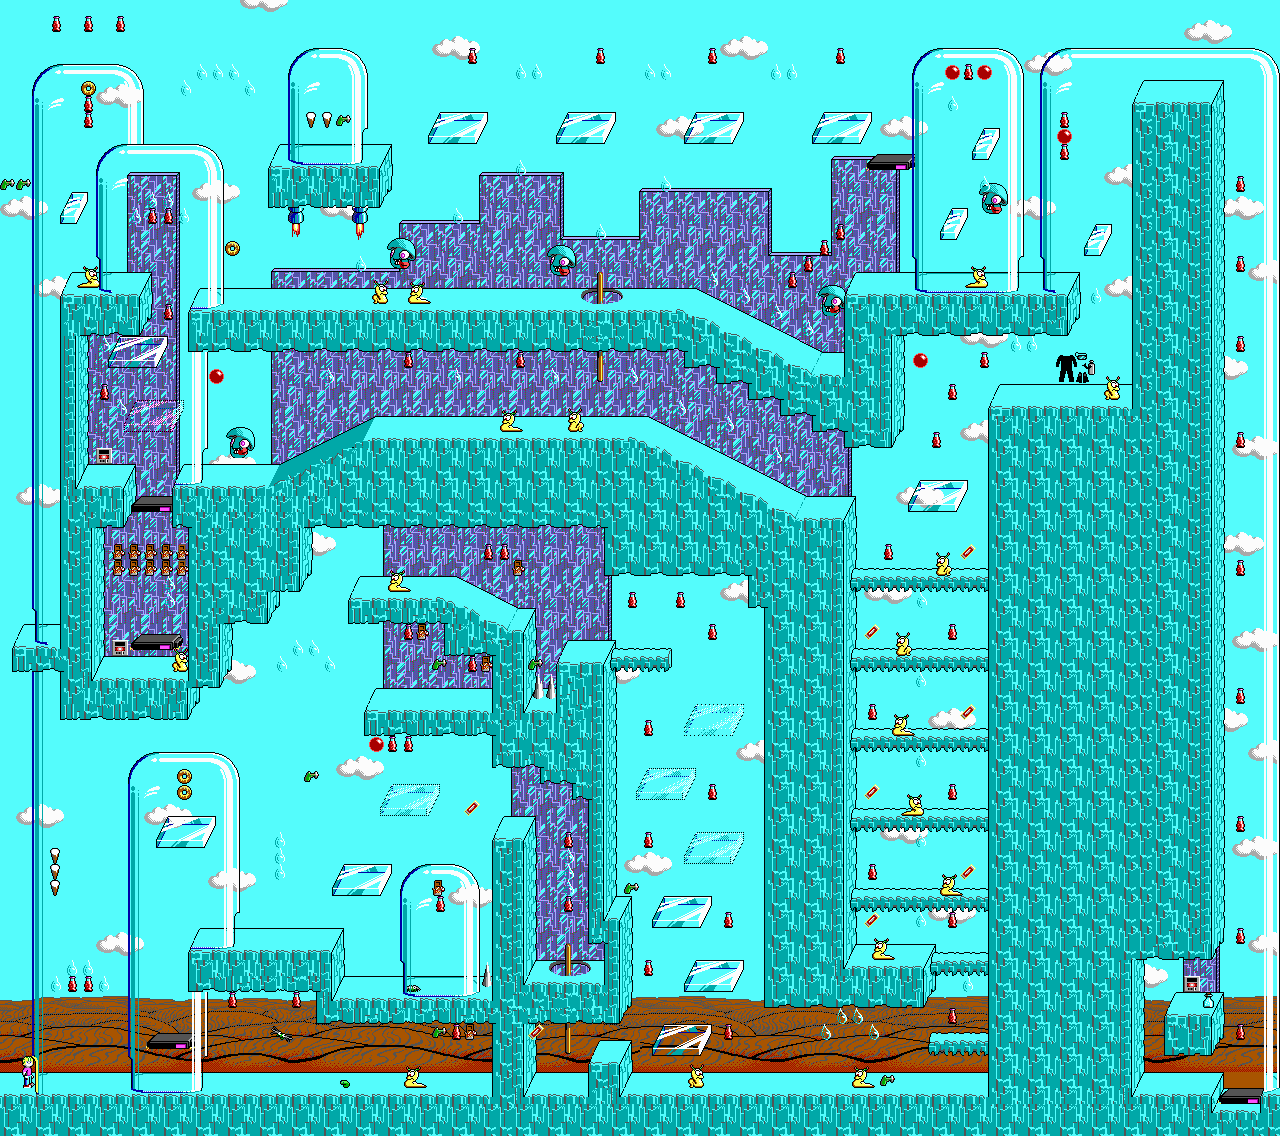
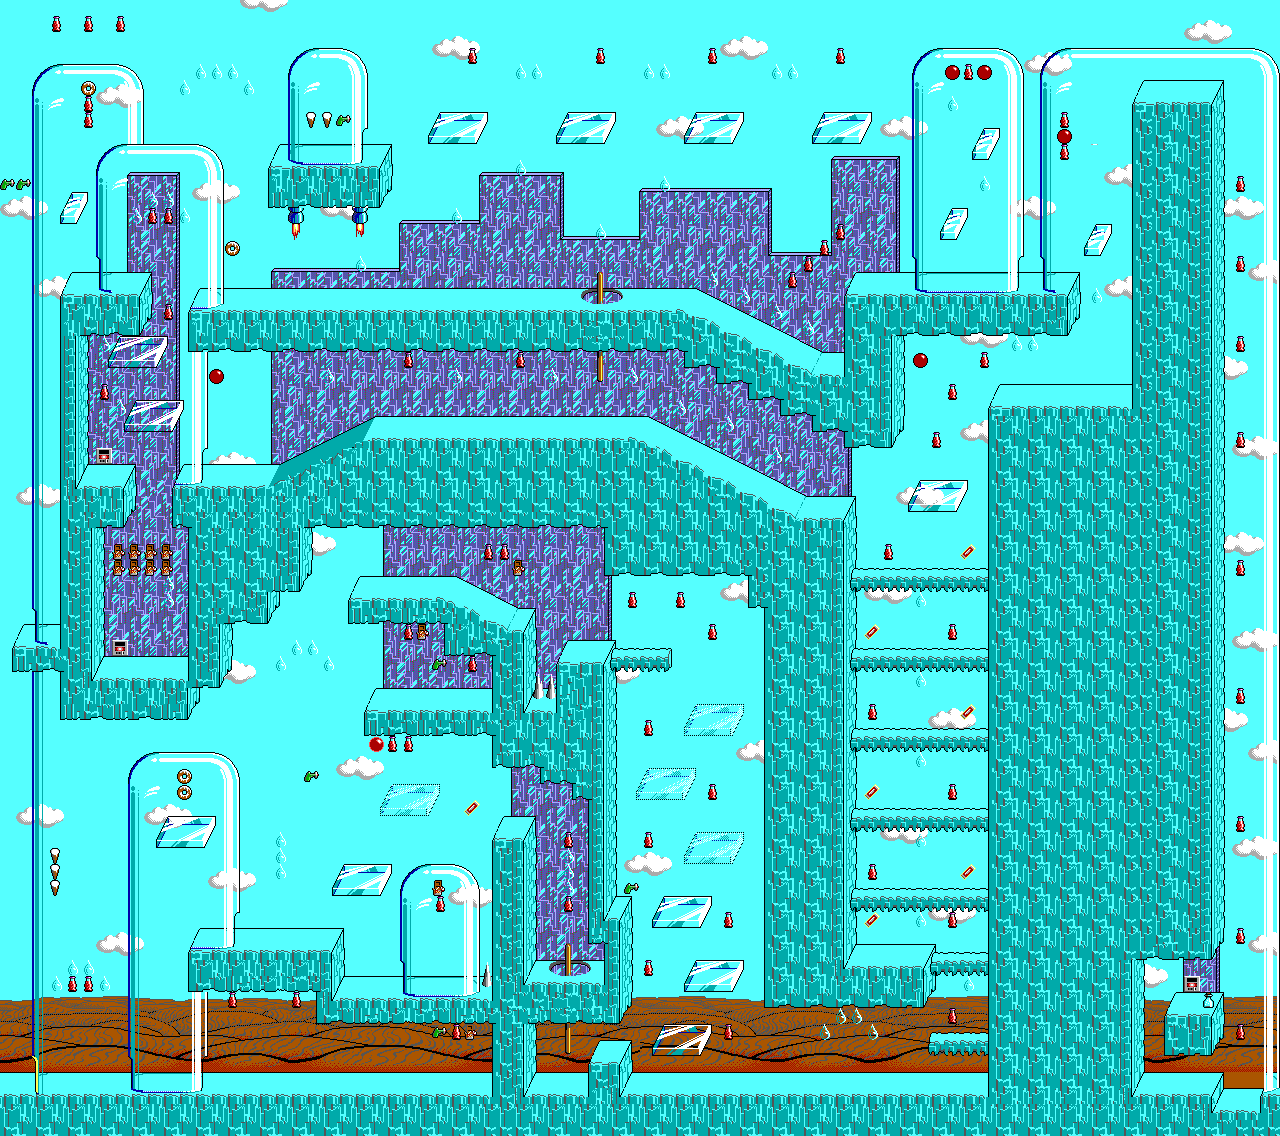
feat(maps): render all level maps from game data with every collectible
Replace the hand-made level art with fully reproducible renders. A new tool,
tools/render_level_maps.py, renders each Keen 4/5 level from the game data
(background+foreground at 16px/tile), crops it to the tracker framing, and
stamps every trackable collectible at its exact in-game tile: gems (Red/Yellow/
Blue/Green), the Keen 5 Keycard, the 5000-pt point pickups (cone/sugar) and the
extra-life pickups (flask/keg).

Gems and the keycard are located from the info plane only (one collectible each,
matching the AP locations); their misc tiles also appear as scenery, so a
foreground scan would over-count. Point/extra-life pickups scan both planes
(counts match the apworld worksheet / drift check). 273 collectibles total,
none off-image.

The per-level crop (left=3; top usually 2, more where the framing trims empty
sky/floor) is baked from the prior alignment so existing location pins stay
valid. Output is a deterministic function of the game data + the script.

Supersedes tools/overlay_pickups_on_maps.py (removed) and the committed
images/_base_levels/ backup (removed); replaces the 'just overlay-maps' recipe
with 'just render-maps'.

diff --git a/tools/render_level_maps.py b/tools/render_level_maps.py
@@ -1,0 +1,181 @@
+#!/usr/bin/env python3
+"""Render every Commander Keen 4/5 tracker level map from the original game data
+and stamp all trackable collectibles onto them, so the maps are fully
+reproducible from the game (no hand-made art).
+
+This supersedes the old overlay-onto-hand-art approach: instead of compositing
+sprites onto pre-existing polished PNGs, it renders each level's background +
+foreground from the game (tools/render_pointsanity_maps.render_map), crops it to
+the tracker framing, and stamps the collectibles at their exact in-game tiles.
+
+Crop / coordinates
+------------------
+Each tracker image crops the game's tile grid by a left border of 3 tiles and a
+top border that is usually 2 (a few levels trim more empty sky / floor: see
+CROP). A collectible at game tile (tx, ty) lands at image pixel centre
+((tx-left)*16+8, (ty-top)*16+8). The CROP table was derived once by aligning the
+former hand-made art against the game render; it is kept fixed so the existing
+location pins (placed against these crops) stay valid.
+
+Collectibles
+------------
+Gems (Red/Yellow/Blue/Green), the Keen 5 Keycard, the 5000-pt pickups (Ice Cream
+Cone / Bag O' Sugar) and the extra-life pickups (Lifewater Flask / Vitalin Keg).
+Each is located by scanning the level (info-layer spawns first, then foreground
+tiles carrying its misc flag) and drawn with its real in-game icon. Minor point
+treasures (gum, soda, ...) are not AP locations and are not stamped.
+
+Output images/Ck?lv??.png are a deterministic function of the game data + this
+script. Needs the omnispeak game data that render_pointsanity_maps points at.
+"""
+from __future__ import annotations
+
+import importlib.util
+import json
+from pathlib import Path
+
+from PIL import Image
+
+HERE = Path(__file__).resolve().parent
+TRACKER = HERE.parent
+IMAGES = TRACKER / "images"
+
+# Reuse the renderer's game-data decoders (Graphics, Maps, render_map, scan_pickups).
+_spec = importlib.util.spec_from_file_location(
+    "render_pointsanity_maps", HERE / "render_pointsanity_maps.py"
+)
+R = importlib.util.module_from_spec(_spec)
+_spec.loader.exec_module(R)
+
+TILE = 16
+
+# tracker map-id -> Gamemaps level index (matches maps/keen{4,5}_maps.json order;
+# untracked levels — Pyramid of the Forbidden (CK4 14), Korath III (CK5 13) —
+# have no tracker map and are intentionally absent).
+MAPID_TO_IDX = {
+    "keen4_bv": 1, "keen4_sv": 2, "keen4_pp": 3, "keen4_cotd": 4, "keen4_coc": 5,
+    "keen4_crys": 6, "keen4_hil": 7, "keen4_sy": 8, "keen4_mir": 9, "keen4_lo": 10,
+    "keen4_potm": 11, "keen4_pos": 12, "keen4_potga": 13, "keen4_iot": 15,
+    "keen4_iof": 16, "keen4_wow": 17, "keen4_bwbm": 18,
+    "keen5_ivs": 1, "keen5_sc": 2, "keen5_dtv": 3, "keen5_efs": 4, "keen5_dtb": 5,
+    "keen5_rcc": 6, "keen5_dts": 7, "keen5_nbi": 8, "keen5_dtt": 9, "keen5_bmi": 10,
+    "keen5_gdh": 11, "keen5_qed": 12,
+}
+
+# Per-level crop in tiles (left, top, right, bottom). Left is always 3; top/bottom
+# vary where the original framing trimmed empty sky/floor. Derived once by aligning
+# the former hand art against the game render (mean-abs pixel match); kept fixed so
+# location pins stay valid. If the art framing ever needs changing, re-derive and
+# migrate the affected pins in lock-step.
+CROP = {
+    "keen4_bv": (3, 2, 1, 2), "keen4_sv": (3, 6, 1, 2), "keen4_pp": (3, 2, 1, 2),
+    "keen4_cotd": (3, 2, 1, 2), "keen4_coc": (3, 2, 1, 2), "keen4_crys": (3, 2, 1, 2),
+    "keen4_hil": (3, 2, 1, 2), "keen4_sy": (3, 2, 1, 2), "keen4_mir": (3, 2, 1, 2),
+    "keen4_lo": (3, 2, 1, 3), "keen4_potm": (3, 2, 1, 2), "keen4_pos": (3, 2, 1, 4),
+    "keen4_potga": (3, 2, 1, 2), "keen4_iot": (3, 2, 1, 2), "keen4_iof": (3, 2, 1, 2),
+    "keen4_wow": (3, 2, 1, 2), "keen4_bwbm": (3, 2, 1, 2),
+    "keen5_ivs": (3, 4, 1, 2), "keen5_sc": (3, 2, 1, 2), "keen5_dtv": (3, 2, 1, 2),
+    "keen5_efs": (3, 2, 1, 2), "keen5_dtb": (3, 2, 1, 2), "keen5_rcc": (3, 2, 1, 2),
+    "keen5_dts": (3, 2, 1, 2), "keen5_nbi": (3, 2, 1, 2), "keen5_dtt": (3, 2, 1, 2),
+    "keen5_bmi": (3, 2, 1, 2), "keen5_gdh": (3, 2, 1, 2), "keen5_qed": (3, 2, 1, 2),
+}
+
+# Trackable collectibles. "item" is the info-plane item number (spawns at
+# 57+item); "misc" is the foreground-tile flag (only used by "both"-mode scans).
+#
+# "scan" picks how positions are found:
+#   "info" — info-layer spawns only (info == 57+item). Gems and the Keycard are
+#            single collectibles placed this way; matching foreground misc tiles
+#            are scenery (gem holders, card-coloured walls), so a foreground scan
+#            would over-count.
+#   "both" — info-layer spawns then foreground misc tiles (the AP/client order).
+#            Point and extra-life pickups are placed either way; counts here match
+#            the apworld worksheet / drift check.
+#
+# The icon is the item's actual in-game pickup sprite, by EGAGRAPH chunk per
+# episode ("spr"; the real floating gem/keycard/keg sprite — NOT the gem-holder
+# tile). Where an item has no sprite entry for an episode it falls back to the
+# foreground tile "tile" (CK4 cone/flask carry their graphic as a fg tile).
+# Sprite chunks: gems SPR_GEM_A1..D1, keycard SPR_SECURITYCARD_1, keg SPR_1UP1
+# (from omnispeak ck_obj.c CK_ItemSpriteChunks + data/keen{4,5}/GFXCHUNK).
+COLLECTIBLES = [
+    {"name": "Red Gem", "item": 0, "misc": None, "scan": "info", "eps": (4, 5), "spr": {4: 242, 5: 224}},
+    {"name": "Yellow Gem", "item": 1, "misc": None, "scan": "info", "eps": (4, 5), "spr": {4: 244, 5: 226}},
+    {"name": "Blue Gem", "item": 2, "misc": None, "scan": "info", "eps": (4, 5), "spr": {4: 246, 5: 228}},
+    {"name": "Green Gem", "item": 3, "misc": None, "scan": "info", "eps": (4, 5), "spr": {4: 248, 5: 230}},
+    {"name": "Point pickup", "item": 9, "misc": 26, "scan": "both", "eps": (4, 5), "spr": {}, "tile": 26},
+    {"name": "Extra life", "item": 10, "misc": 27, "scan": "both", "eps": (4, 5), "spr": {5: 222}, "tile": 27},
+    {"name": "Keycard", "item": 13, "misc": None, "scan": "info", "eps": (5,), "spr": {5: 207}},
+]
+
+
+def collectible_icon(gfx, ep, c) -> Image.Image:
+    """The item's real in-game pickup sprite for this episode (sprite chunk if
+    set, else its foreground tile)."""
+    if ep in c.get("spr", {}):
+        return gfx.sprite_rgba(c["spr"][ep])
+    return gfx.item_graphic(c["tile"], None)
+
+
+def collectible_tiles(gfx, w, h, fg, info, c) -> list[tuple[int, int]]:
+    """Game tiles holding collectible `c` (see the "scan" field)."""
+    if c["scan"] == "info":
+        val = R.ITEM_INFO_BASE + c["item"]
+        return [(x, y) for y in range(h) for x in range(w) if info[y * w + x] == val]
+    return [(p["x"], p["y"]) for p in R.scan_pickups(gfx, w, h, fg, info, c["misc"], c["item"])]
+
+
+def map_id_to_image() -> dict[str, str]:
+    out: dict[str, str] = {}
+    for ep in (4, 5):
+        for entry in json.loads((TRACKER / "maps" / f"keen{ep}_maps.json").read_text()):
+            if entry["name"] in MAPID_TO_IDX:
+                out[entry["name"]] = Path(entry["img"]).name
+    return out
+
+
+def main() -> None:
+    mapid_img = map_id_to_image()
+    gfxs = {ep: R.Graphics(ep) for ep in (4, 5)}
+    mapses = {ep: R.Maps(ep) for ep in (4, 5)}
+    # Pre-decode each episode's collectible icons once.
+    icons = {
+        ep: [(c, collectible_icon(gfxs[ep], ep, c))
+             for c in COLLECTIBLES if ep in c["eps"]]
+        for ep in (4, 5)
+    }
+
+    total_maps = total_picks = 0
+    for mapid, idx in MAPID_TO_IDX.items():
+        ep = 4 if mapid.startswith("keen4") else 5
+        gfx, maps = gfxs[ep], mapses[ep]
+        w, h, bg, fg, info = maps.load(idx)
+        left, top, right, bottom = CROP[mapid]
+
+        img = R.render_map(gfx, w, h, bg, fg).convert("RGBA")
+        img = img.crop((left * TILE, top * TILE, (w - right) * TILE, (h - bottom) * TILE))
+        iw_img, ih_img = img.size
+
+        counts: dict[str, int] = {}
+        for c, icon in icons[ep]:
+            iw, ih = icon.size
+            for tx, ty in collectible_tiles(gfx, w, h, fg, info, c):
+                cx = (tx - left) * TILE + TILE // 2
+                cy = (ty - top) * TILE + TILE // 2
+                if not (0 <= cx < iw_img and 0 <= cy < ih_img):
+                    continue
+                img.paste(icon, (cx - iw // 2, cy - ih // 2), icon)
+                counts[c["name"]] = counts.get(c["name"], 0) + 1
+
+        img.convert("RGB").save(IMAGES / mapid_img[mapid])
+        total_maps += 1
+        total_picks += sum(counts.values())
+        summary = ", ".join(f"{k}×{v}" for k, v in counts.items()) or "(no collectibles)"
+        print(f"  {mapid:12s} -> {mapid_img[mapid]:12s} {summary}")
+
+    print(f"\nRendered {total_maps} level maps and stamped {total_picks} collectibles "
+          f"— fully from game data.")
+
+
+if __name__ == "__main__":
+    main()
